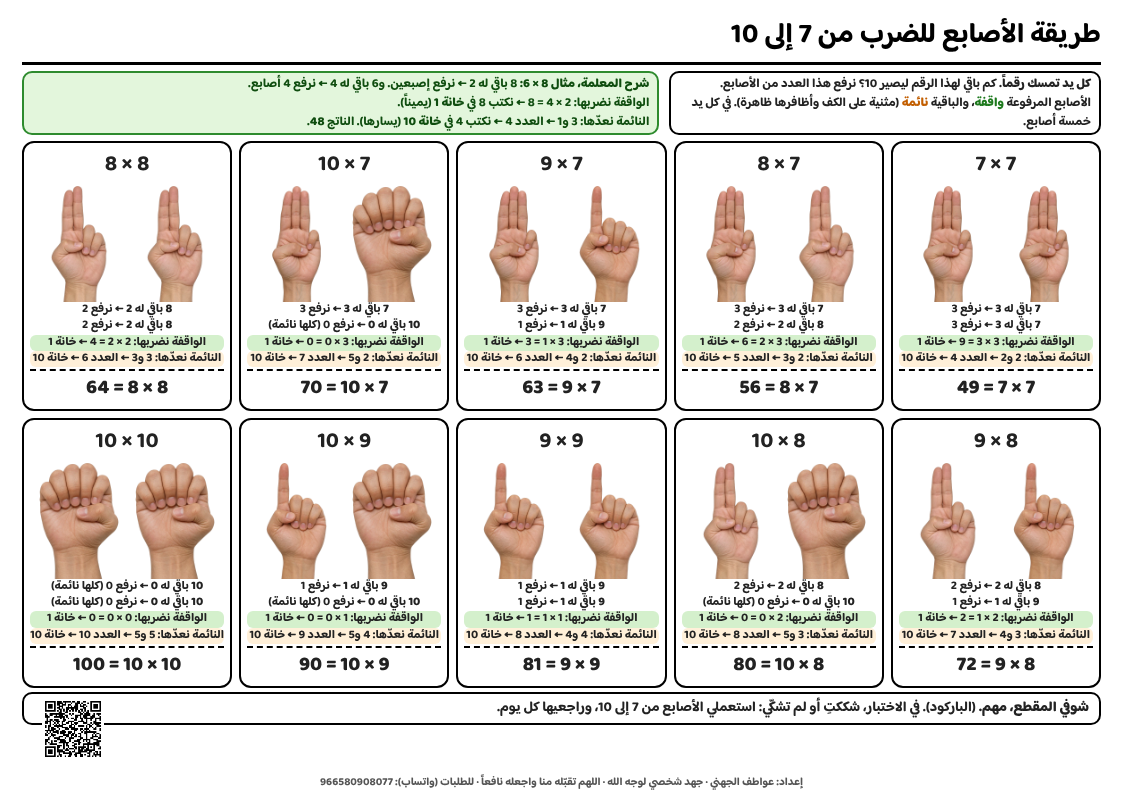
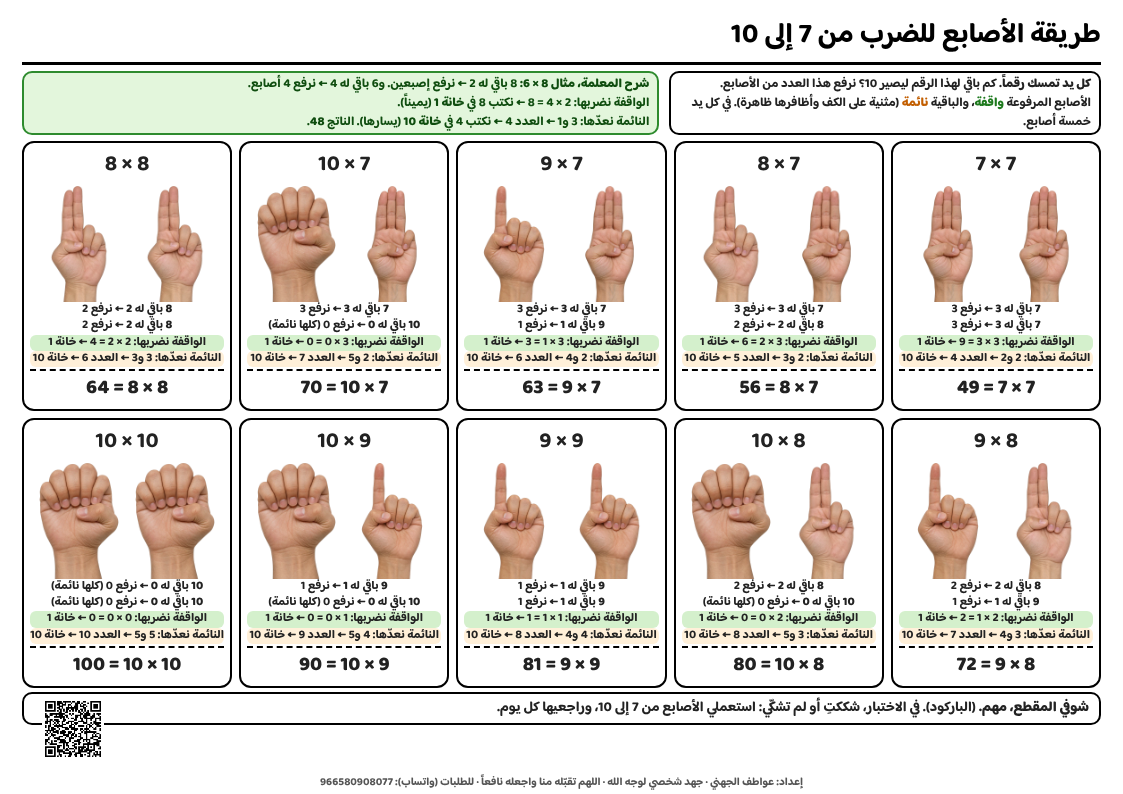
ترتيب اليدين يطابق ترتيب الرقمين (الأول عند اليمين)

diff --git a/zarb/zarb.js b/zarb/zarb.js
@@ -240,7 +240,7 @@ function fingers(){
    var cl=L,cr=R,cA=10-A,cB=10-B;
    app.innerHTML='<button class="back" id="bk">→ الرجوع</button><div class="head"><h1>الأصابع: <bdi class="eq">'+A+' × '+B+'</bdi></h1><div class="sub">للضرب من 7 إلى 10</div></div>'+
    '<div class="vb"><div class="yarn paper" style="padding:.7rem 1rem"><h2 style="margin:0">الطريقة</h2>'+steps+'<div class="row"><a class="btn sm" href="../docs/math/zarb_fingers_7_10.pdf" target="_blank" rel="noopener" style="text-decoration:none">🖨 ورقة الأصابع للطباعة</a></div></div>'+vid('media/fingers.mp4','media/fingers.jpg','المقطع لصاحبته (علامتها المائية ظاهرة). نستعمله للتعلّم فقط.')+'</div>'+
-   '<div class="yarn paper" style="padding:.7rem 1rem;margin-top:.6rem"><h2 style="margin:0">أتدرّب على <bdi class="eq">'+A+' × '+B+'</bdi></h2><div class="hands" style="direction:ltr"><div class="hw"><div class="hl">اليد الأولى: <b>'+A+'</b></div><div class="hb" id="hL">'+handImg('L',L)+'</div><div class="hc"><button class="btn sm" data-h="L" data-d="-1">−</button><b>واقفة: '+L+' · نائمة: '+(5-L)+'</b><button class="btn sm" data-h="L" data-d="1">+</button></div></div><div class="hw"><div class="hl">اليد الثانية: <b>'+B+'</b></div><div class="hb" id="hR">'+handImg('R',R)+'</div><div class="hc"><button class="btn sm" data-h="R" data-d="-1">−</button><b>واقفة: '+R+' · نائمة: '+(5-R)+'</b><button class="btn sm" data-h="R" data-d="1">+</button></div></div></div>'+
+   '<div class="yarn paper" style="padding:.7rem 1rem;margin-top:.6rem"><h2 style="margin:0">أتدرّب على <bdi class="eq">'+A+' × '+B+'</bdi></h2><div class="hands" style="direction:rtl"><div class="hw"><div class="hl">اليد الأولى: <b>'+A+'</b></div><div class="hb" id="hL">'+handImg('L',L)+'</div><div class="hc"><button class="btn sm" data-h="L" data-d="-1">−</button><b>واقفة: '+L+' · نائمة: '+(5-L)+'</b><button class="btn sm" data-h="L" data-d="1">+</button></div></div><div class="hw"><div class="hl">اليد الثانية: <b>'+B+'</b></div><div class="hb" id="hR">'+handImg('R',R)+'</div><div class="hc"><button class="btn sm" data-h="R" data-d="-1">−</button><b>واقفة: '+R+' · نائمة: '+(5-R)+'</b><button class="btn sm" data-h="R" data-d="1">+</button></div></div></div>'+
    '<div class="msg soft">اليد الأولى: '+A+' باقي له كم ليصير 10؟ ارفعي هذا العدد من الأصابع.<br>اليد الثانية: '+B+' باقي له كم ليصير 10؟ ارفعيه أيضاً.</div><div id="s2"></div></div>';
    $('#bk').onclick=ritual;
    document.querySelectorAll('.hc button').forEach(function(x){x.onclick=function(){var d=+x.dataset.d;if(x.dataset.h==='L')L=Math.max(0,Math.min(5,L+d));else R=Math.max(0,Math.min(5,R+d));render()}});
